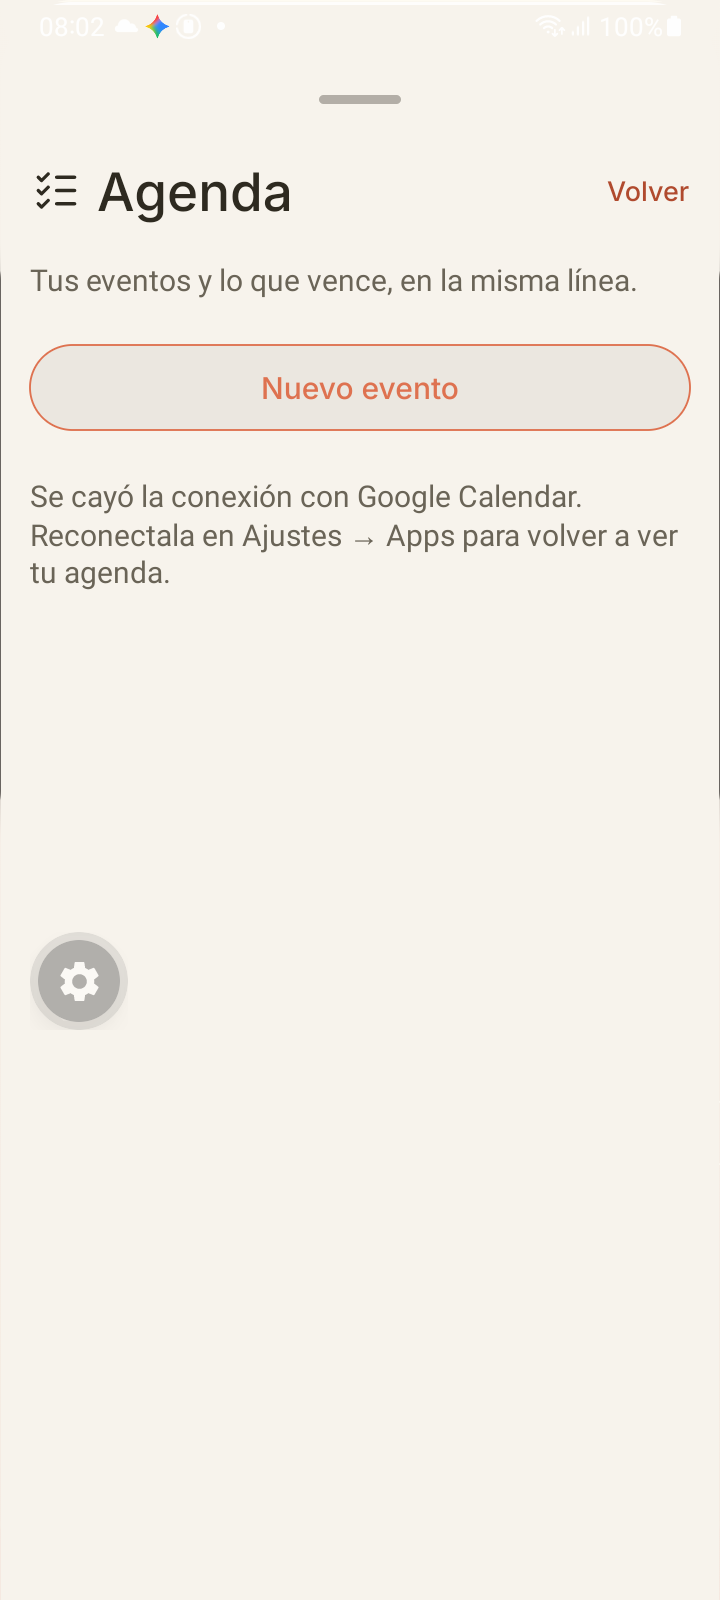
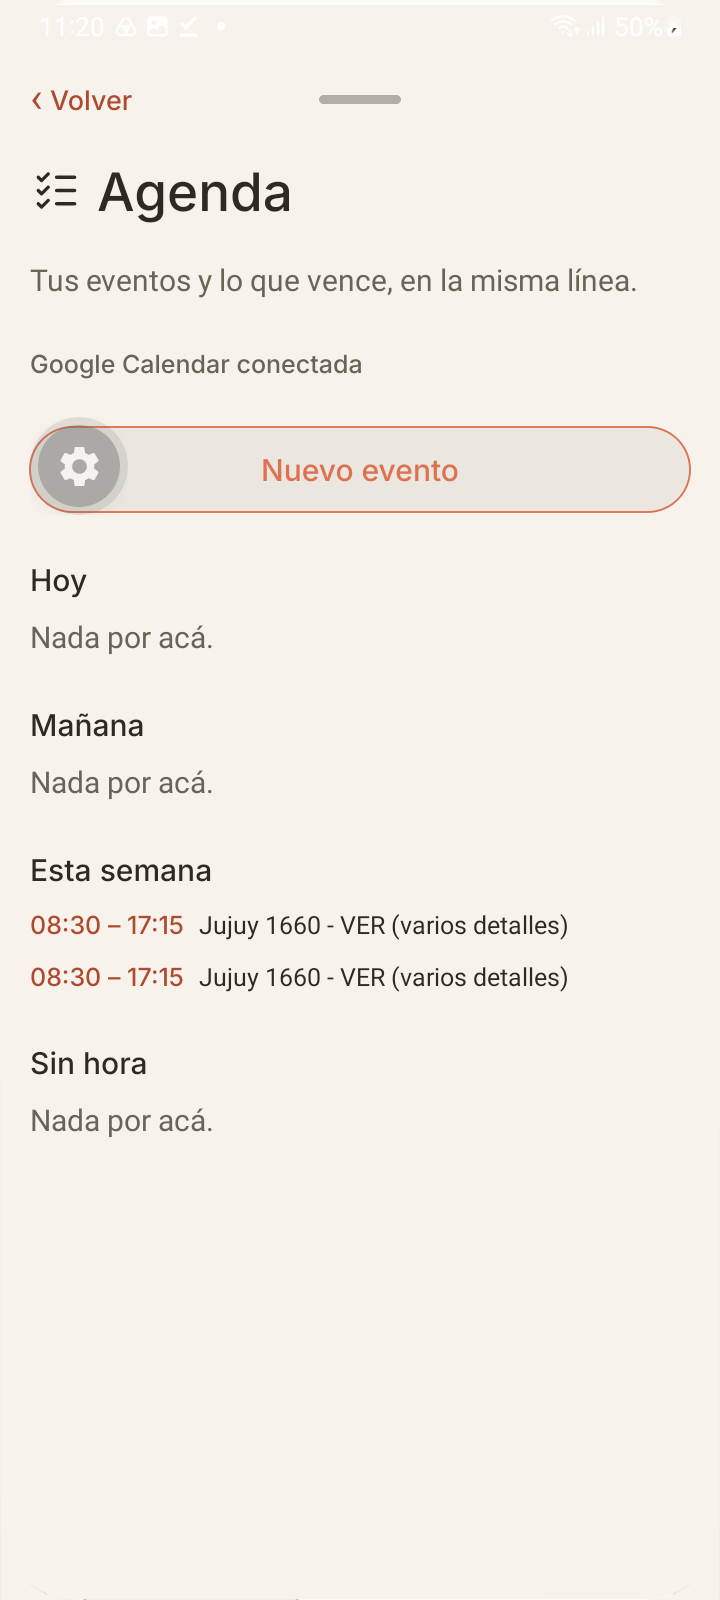
docs(relevamiento): sesión del operador 2026-11-02 — veredictos fact-hitl, agenda, card, preg, hitl y defecto de cancelar sin desactivar la card

diff --git a/docs/copiloto-emprendedor/2026-10-16-relevamiento-PENDIENTES-device-plan-para-completarlo.md b/docs/copiloto-emprendedor/2026-10-16-relevamiento-PENDIENTES-device-plan-para-completarlo.md
@@ -52,8 +52,28 @@
 - El paso de perfil del onboarding (N4) muestra los errores en rojo antes de tocar nada.
 - «Presupuestos» se parte en «Presupuesto/s» en el tile de Funciones (a 390 dp).
 - Observación (no concluyente): el proceso de la app murió una vez por `signal 9` (muerte externa, sin crash en el log).
+- **A CORREGIR (orden del operador, 2026-11-02): la pantalla de ARCA no se refresca sola al terminar la vinculación.** Medido: Producción quedó vinculada y activa en el servidor (`dev` inactiva, `prod` activa, diag `estado-tenant-prod.sh`; `POST /afip/conectar` 200 a las 10:45 hora del teléfono) y 3 min después la pantalla seguía diciendo «vinculada en Homologación» con Homologación «Activo»; recién al salir y volver a entrar mostró Producción «Activo». Criterio: el estado se actualiza **solo**, sin salir ni reentrar. Pista: `PantallaAfipSetup.tsx` (polling `poleando`/`refrescarEstadoGeneral`, `usarAmbiente`) — comprobar que al cerrar el polling con `completado` se llame a `refrescarEstadoGeneral(cuit)`. Causa NO verificada todavía.
 
-**Pendiente de esta sesión:** vincular Producción (operador), factura de $100 a consumidor final en el ambiente que se decida (botón final lo toca el operador), y recorrido autónomo del resto.
+- **HECHO 2026-11-02: Producción vinculada y factura REAL emitida** (botón final tocado por el operador, su usuario `341lin@gmail.com`): Factura C (tipo 11), PV 6, N° 10, CAE 86440590262416, vence 2026-11-12, total 100,00; comprobante `423`; servidor: `cliente` → `confirmar` → consulta de estado, todos 200 (13:53 UTC); queda «Todavía no te la pagaron».
+- Máscara de fecha de «Datos de venta»: con `adb input text 02112026` quedó `DD / 02 / 1120` y después no respondió a borrar ni reescribir con toques sintéticos; el operador la cargó a mano sin problema. **No concluyente** (puede ser el instrumento, no la máscara): repetir con teclado real antes de llamarlo defecto.
+- Panel de compartir: faltaba WhatsApp/Telegram porque no estaban instalados (`pm list packages`, control positivo con Gmail/Mensajes); tras instalarlos el operador confirmó que funciona. No es defecto. Mejora de UX opcional: el panel muestra solo el link crudo de AfipSDK, sin texto.
+
+- **A CORREGIR (clase A, orden del operador 2026-11-02): los botones laterales de la barra «Escribí, o hablá…» del chat están casi invisibles.** Medido en device (captura con el campo vacío y con texto escrito): el de la izquierda (tacho/micrófono, x≈77 de 720 px) y el de la derecha (enviar, x≈643) son un cuadrado redondeado muy pálido con ícono rojo de contraste mínimo; no se lee qué hacen ni si están activos. No es solo «apagado por estar vacío»: con texto cargado seguían igual. Criterio: contraste legible en reposo y estado deshabilitado distinguible.
+- **Diferencia del chat (`fact-hitl`, #26):** al pedir «Facturale 100 pesos a consumidor final» el asistente no asumió consumidor final: respondió «Necesito más información… Podés darme el CUIT o DNI del consumidor final.» Recién tras «no hace falta… consumidor final» apareció la tarjeta «Factura C · ARCA», con Cliente «consumidor final» y el aviso «Esto entendí, pero falta completar algo antes de emitirla». El mapa muestra la tarjeta directa. Falta capturar la tarjeta completa (el teclado la tapaba) y decidir si «consumidor final» explícito debe saltear la pregunta.
+- **HECHO 2026-11-02: segunda factura REAL, ahora por el chat y por voz** (operador, botón final suyo): N° 11, CAE 86440594053582, vence 2026-11-12, total 100.00, «Guardada en tu Drive»; servidor `POST /afip/facturas/dictado-conv-web-…/confirmar` 14:07:22 UTC. Es la contraparte real de `fact-voz` (#25), `fact-hitl` (#26) y `fact-cae` (#27). Diferencias contra el mapa (a cerrar con captura limpia, la tomada llevaba encima la barra de capturas de Samsung): la app dice «Factura emitida.» con `Tipo de comprobante 11 · Punto de venta 6 · N° 11` sin formato y sin cliente; el mapa muestra «Factura C emitida», N° `0003-00000127`, importe, cliente, CAE, vencimiento y enlace «PDF», y ofrece Drive / **mail** / WhatsApp (la app: «Abrir en Drive» / «Compartir», sin mail).
+- **A IMPLEMENTAR (orden del operador, 2026-11-02): la tarjeta «Factura C · ARCA» debe traer un botón para EDITAR todos los datos de la factura, junto al de «Emitir la factura».** Hoy no hay forma de modificar nada una vez que aparece la card: solo se puede emitir o rehacer el pedido por chat. Medido en el código: `TarjetaFacturaPropuesta.tsx:26` declara a propósito «No es una card editable como gasto/ingreso/presupuesto — es un gate + un handoff», con lo que el pedido **revierte esa decisión de diseño**; hay que decidirlo explícito con planificación (hay un `contrato_` previo del 2026-10-13 cuyo nombre dice «el Editar es contrato MUERTO»: leerlo antes de diseñar, no inventar). Alcance pedido: editar **todos** los campos (tipo de comprobante, cliente y su condición/documento, ítems y descripciones, importes, fecha, concepto, condición de venta). Criterio de terminado: desde la card, tocar «Editar», cambiar un dato, volver a la card con el dato nuevo y recién ahí «Emitir», sin pasar por otra pantalla de otro flujo; con test y evidencia en device (en Homologación, sin emitir real). Riesgo a cuidar: lo editado tiene que viajar por el mismo gate de confirmación (`confirmarConTokenFresco`), no por un camino paralelo que se saltee la verificación.
+- **Evidencia de la card sin «Editar»** (`2026-10-16-relevamiento-capturas/app-mapa-fact-hitl-sin-boton-editar.png`, device 2026-11-02 11:15): encabezado «Factura C · ARCA», «Esto entendí. Revisalo y tocá Emitir la factura — todavía no la mandé.», Cliente «consumidor final» / «Consumidor Final», ítem «slinga de acero de 10 milímetros de 2 metros de largo» 1 × 200, Total 200.00, aviso de nota de crédito y **un único botón «Emitir la factura»**. El dictado dejó la transcripción con errores («…la factura no hace falta el quit»), que es el caso donde editar más hace falta. `fact-hitl` queda medido como DIFERENTE · A (falta Editar; el prototipo muestra «Queda así. Revisala antes de emitir»).
+- **A IMPLEMENTAR (orden del operador, 2026-11-02): la card «Factura C · ARCA» también debe tener «Cancelar».** Medido en device (captura de arriba): el único botón es «Emitir la factura»; no hay forma de descartar la propuesta sin emitirla, y mientras la card queda pendiente en el hilo la acción sigue disponible. Criterio: la card trae **Editar · Cancelar · Emitir la factura** juntos; «Cancelar» descarta la propuesta sin emitir nada, deja la card marcada como cancelada (no vuelve a ofrecer Emitir tras un remount, mismo mecanismo `facturaResuelta` que ya cierra la card tras emitir, `TarjetaFacturaPropuesta.tsx:65`) y no llama a ARCA. Contraste: las cards HITL del mapa (`hitl`, «Confirmar y mandar» / «Cancelar») ya traen Cancelar; esta es la excepción. Test adversarial: tras «Cancelar», ni un toque repetido ni un remount pueden emitir.
+- **MEDIDO 2026-11-02 · `agenda` (#16) → DIFERENTE · A** (`app-agenda.png`; Calendar reconectado por el operador, «5 conectadas de 5» en `app-apps-conectadas-5-de-5.png`). El prototipo dibuja una **línea de tiempo** del día (horas 8:00–15:00, bloques de evento, **línea del ahora**) con «Hoy martes 18» y el botón «+ Nuevo evento» en una píldora a la derecha; la app muestra una **lista** agrupada Hoy / Mañana / Esta semana / Sin hora («Nada por acá.»), sin grilla horaria ni línea del ahora, el botón «Nuevo evento» de ancho completo y sin «+», y «Google Calendar conectada» sin el punto de estado. A mirar aparte: «Jujuy 1660 - VER (varios detalles)» aparece **dos veces** idéntico (08:30–17:15) en Esta semana; puede ser dato real duplicado en el calendario del operador o un defecto de listado — no verificado.
+- **A CORREGIR (clase A): las tiles de Ajustes dibujan un fondo blanco cuadrado que sobresale del borde redondeado** (visto en `Ajustes`, 2026-11-02 11:19; mismo artefacto en las cards de «Apps conectadas»). Medido solo en captura; sin causa verificada.
+- **DECISIÓN DEL OPERADOR (2026-11-02): las entradas de VOZ se miden DESPUÉS de las correcciones, no ahora.** Motivo: el botón grande de voz que hay hoy ya no está en el mapa nuevo, así que medirlo contra el mapa no sirve. Afecta a `vozchat`, `fact-voz`, `pres-voz` y al cancelar-deslizando de `grabando`: **quedan NO-VERIFICABLE hasta entonces**. Corrección a lo dicho antes en esta sesión: la factura N° 11 fue dictada, pero **no cuenta como medición de `fact-voz` (#25)**; sí sirvió de contraparte de `fact-hitl` (#26) y `fact-cae` (#27), que son de la card y no del dictado.
+- **DEFECTO GRAVE (clase A, prioridad alta) 2026-11-02 11:17–11:23: cancelar por chat NO desactiva la card.** Evidencia: `app-fact-hitl-cancelada-por-chat-sigue-emitible.png`. El operador escribió «Cancela» (11:17, recibido); Odobi contestó «Borré la tarjeta de la factura. Si necesitás algo más, no dudes en decirlo.»; seis minutos después la card «Factura C · ARCA» de $200 seguía en el hilo con **«Emitir la factura» activo**. El mensaje afirma un efecto que la UI no tiene: tocarlo emitiría un comprobante fiscal REAL en Producción tras haber dicho el sistema que se canceló. Verificado en el servidor: 0 `confirmar` desde las 14:08 UTC (no se emitió; nadie la tocó). Causa NO verificada: falta saber si el backend marcó la propuesta como descartada y la card no lo refleja, o si el «Borré» es solo texto del modelo sin acción. Esto refuerza el pedido de «Cancelar» en la card y suma un criterio: **una propuesta cancelada (por botón o por chat) deja la card deshabilitada y el backend rechaza el `confirmar` de esa propuesta** — test adversarial: cancelar, luego confirmar → denegado.
+- **Incidente del instrumento:** un gesto mío (`slide` desde el borde inferior) inició una grabación de voz sin querer; se descartó con el tacho, no se envió nada.
+- **Teléfono compartido:** el operador escribió en el chat mientras yo operaba; para medir en paralelo hay que acordar quién toca (un segundo operador fabrica evidencia).
+
+- **Veredictos medidos 2026-11-02 (chat, Producción):** `preg` CONFORME (responde «cuánto facturé»). `card` CONFORME para gasto (editable, Cancelar/Guardar). `hitl` DIFERENTE·A: pedido «Mandale un recordatorio por mail a Lucia para mañana» → el asistente propuso un evento de **Google Calendar** «Recordatorio para Lucía» (no un mail Gmail con «Confirmar y mandar»/«Cancelar» como el mapa); botones «Confirmar»/«Cancelar». Al tocar Cancelar se envió «Cancelar» como mensaje, el asistente respondió «Parece que el recordatorio fue cancelado» y **la card siguió visible con ambos botones activos** (mismo defecto que la factura: cancelar no desactiva la card). Evidencias: `app-hitl-recordatorio-lucia.png`, `app-hitl-cancelada-card-sigue-visible.png`. No se confirmó nada: no se creó evento.
+
+**Pendiente de esta sesión:** Calendar ya reconectado (5 de 5); sigue el recorrido autónomo: `recibo`, `pres-hitl`, `pres-ciclo`, usuario descartable `structuralsource@gmail.com` y cierres de sesión.
 
 ## 0. Orden del operador (textual, 2026-10-16)
 
